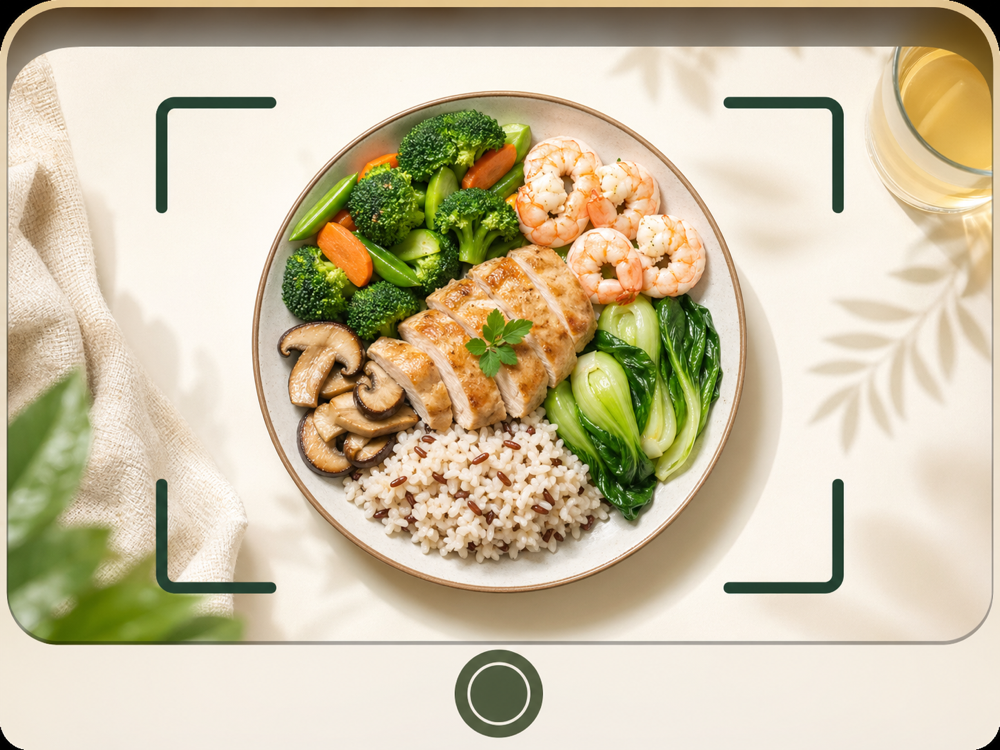
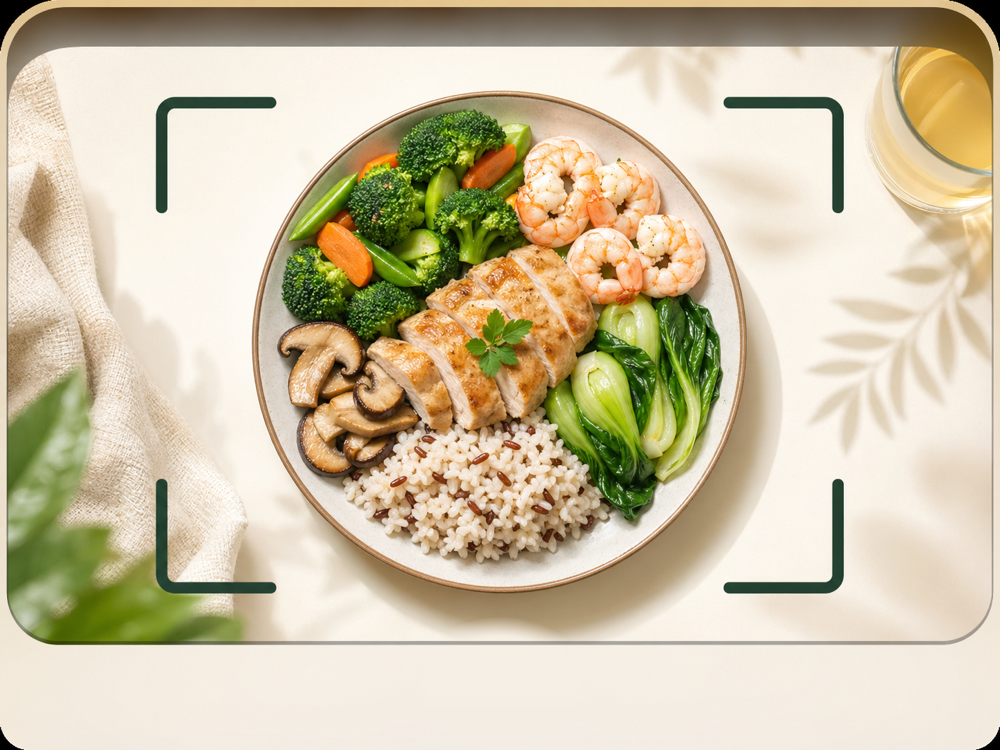
fix: remove guide shutter dot

Changed region(s): [[0.434, 0.828, 0.558, 0.9813]]

diff --git a/index.html b/index.html
@@ -22,7 +22,7 @@
           </div>
 
           <button class="camera-frame" id="cameraFrameBtn" type="button" aria-label="饭前拍一下拍饭菜">
-            <img src="./assets/camera-guide.png" alt="" />
+            <img src="./assets/camera-guide.png?v=20260430-no-dot" alt="" />
           </button>
 
           <button class="primary-action" id="takePhotoBtn" type="button">饭前拍一下</button>
